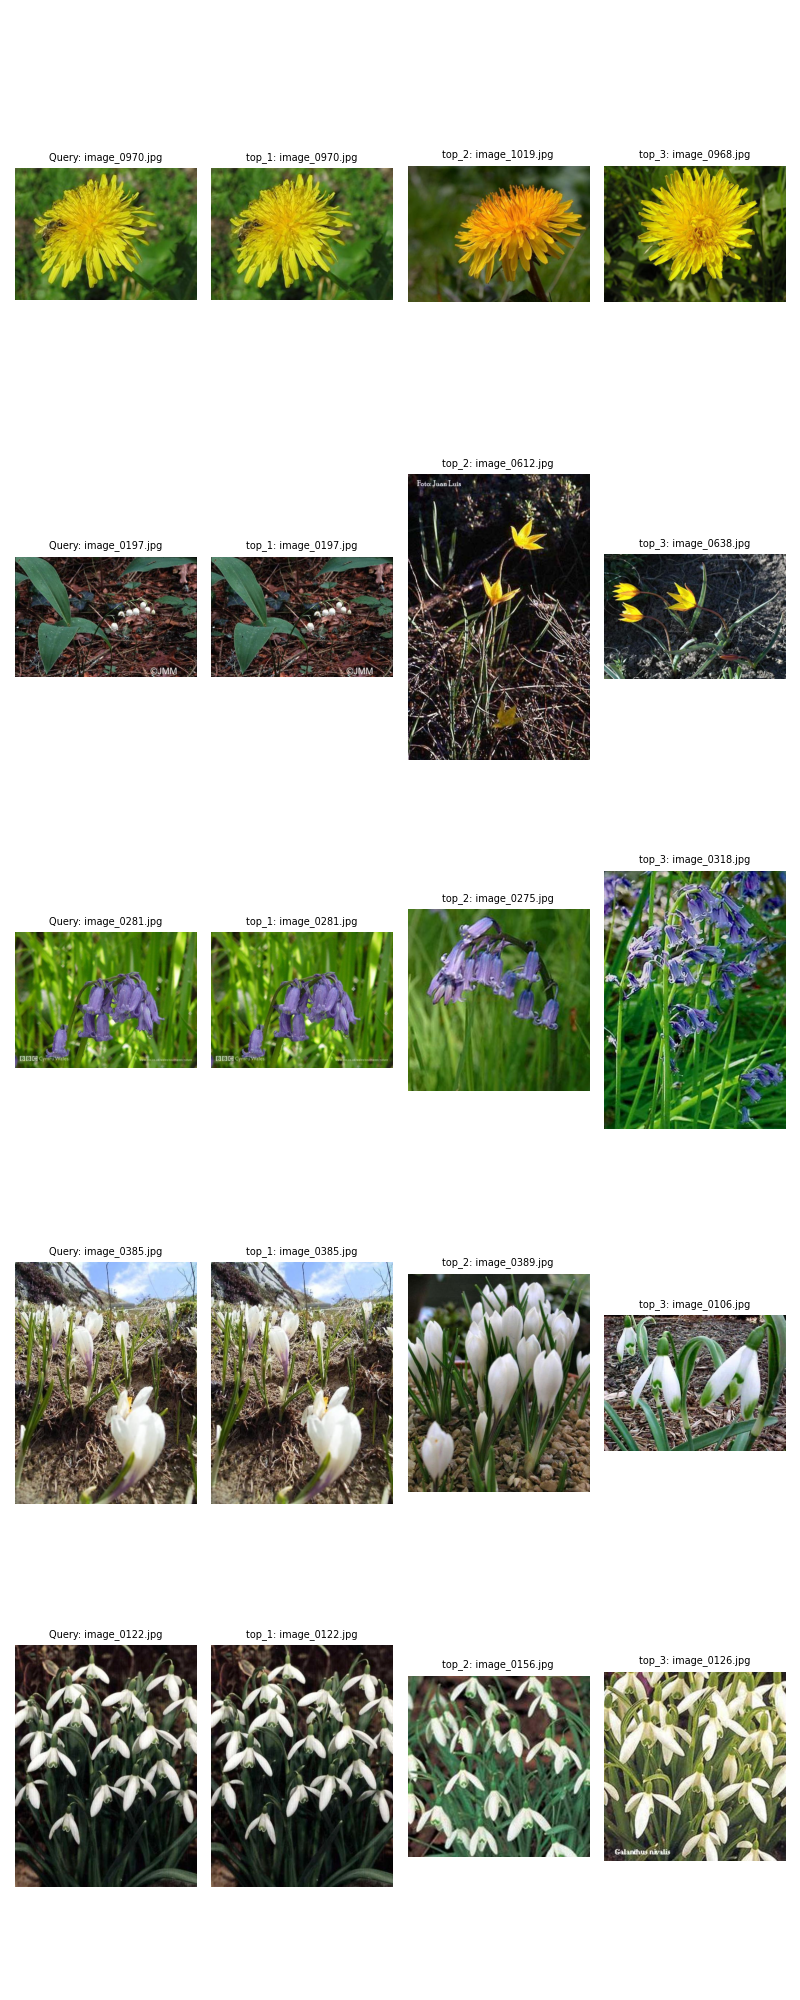
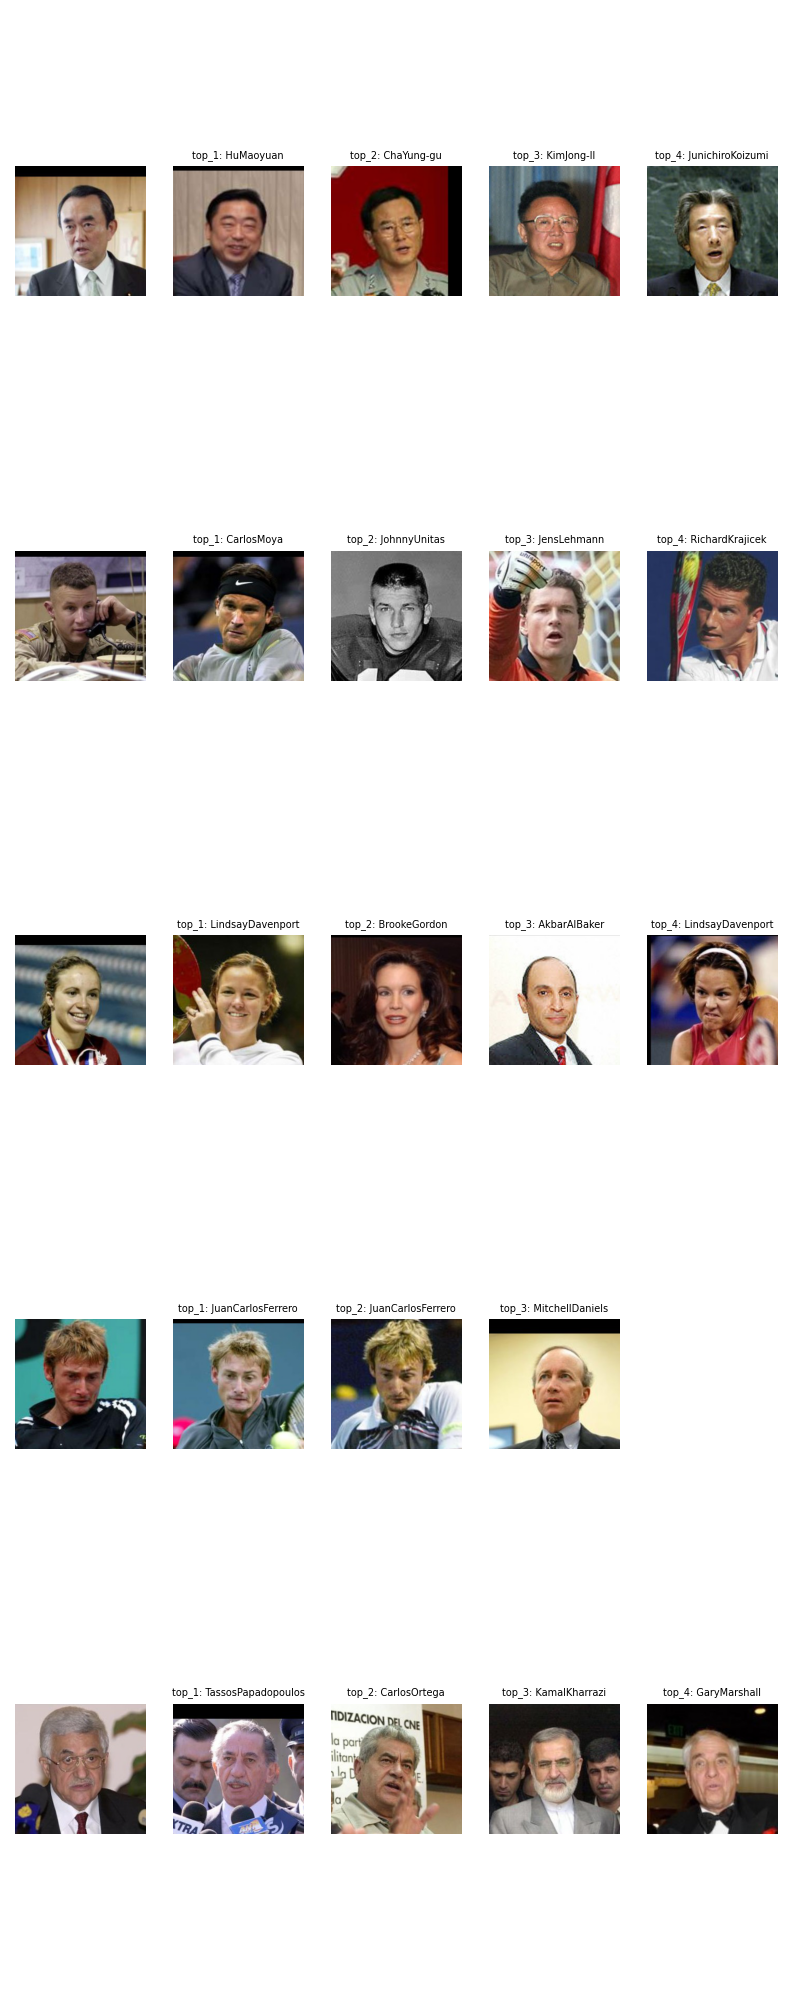
FaceNet Docker Update

diff --git a/face-db-search/Encoder/FaceNetEncoder.py b/face-db-search/Encoder/FaceNetEncoder.py
@@ -1,0 +1,31 @@
+__copyright__ = "Copyright (c) 2020 Jina AI Limited. All rights reserved."
+__license__ = "Apache-2.0"
+
+
+from jina.executors.encoders.frameworks import BaseCVTorchEncoder
+
+class FaceNetTorchEncoder(BaseCVTorchEncoder):
+    """
+    :class:`FaceNetTorchEncoder` encodes data from a ndarray, potentially B x (Channel x Height x Width) into a
+        ndarray of `B x D`.
+
+    """
+
+    def __init__(self,pretrained: str='vggface2',pool_strategy: str = 'mean', *args, **kwargs):
+        """
+        :pretrained : The weights to load
+        """
+        super().__init__(*args, **kwargs)
+        if pretrained not in ('vggface2','casia-webface'):
+            raise NotImplementedError('unknown pretrained checkpoints: {}'.format(self.pretrained))
+        self.pretrained = pretrained
+
+    def post_init(self):
+        from facenet_pytorch import InceptionResnetV1
+        self.model= InceptionResnetV1(pretrained=self.pretrained).eval()
+        self.to_device(self.model)
+
+    def _get_features(self, data):
+        return self.model(data)
+
+

diff --git a/face-db-search/app.py b/face-db-search/app.py
@@ -93,7 +93,7 @@ def save_topk(resp, output_fn=None):
                 fname = os.path.split(img)[-1]
                 names=fname.split('_')[:-1]
                 fname=''.join(names)
-                fname = f'Query: {fname}' if m_idx == 0 else f'top_{m_idx}: {fname}'
+                fname = f'' if m_idx == 0 else f'top_{m_idx}: {fname}'
                 ax[q_idx][m_idx].imshow(mpimg.imread(img))
                 ax[q_idx][m_idx].set_title(fname, fontsize=7)
         [aa.axis('off') for a in ax for aa in a]
